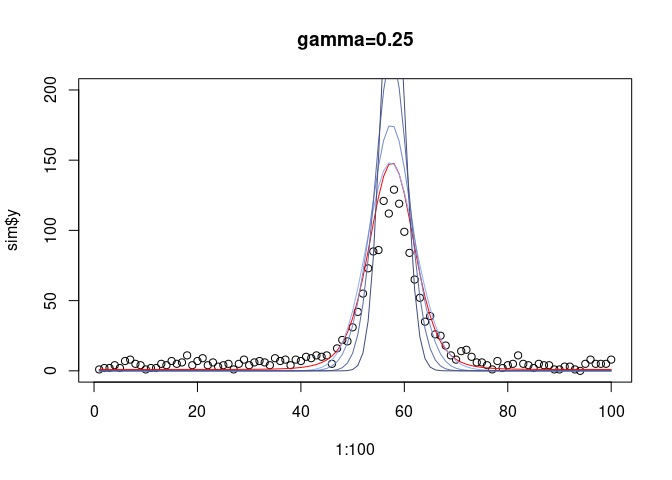
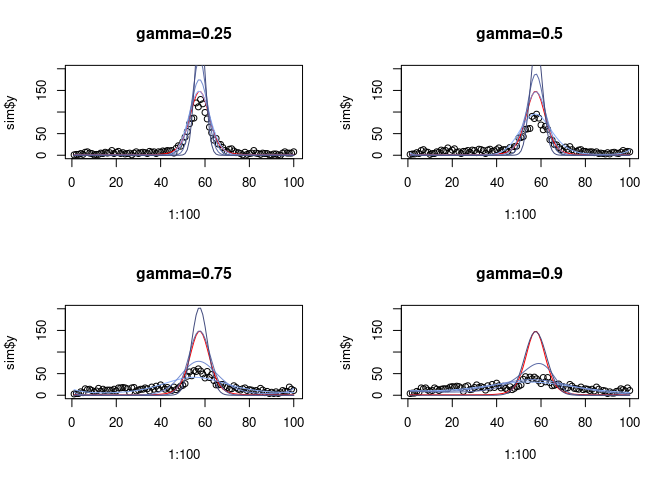
edits to vignette

diff --git a/vignettes/demo_1d.md b/vignettes/demo_1d.md
@@ -38,9 +38,9 @@ details, see everything below the quick start section.
 Here, we use a small sample of the RD-SPRITE data
 ([GSE151515](https://www.ncbi.nlm.nih.gov/geo/query/acc.cgi?acc=GSE151515)).
 
-We focus on the lncRNA which is a part of the imprinted cluster on
-chromosome 17 (mm10) and is thought to orchestrate silencing of the gene
-.
+We focus on the lncRNA *Airn* which is a part of the *Igf2r* imprinted
+cluster on chromosome 17 (mm10) and is thought to orchestrate silencing
+of the gene *Slc22a3*.
 
 ``` r
 airn <- fread('/rafalab/lzou/rdsprite/count_windows/Airn_RNA_count_windows_10000_clusters_2-1000_chr17_129S1_SvImJ.csv') |>
@@ -84,8 +84,9 @@ coefficients to be estimated.
 Before we deconvolve, it is important to inspect the DNA-DNA contact
 matrix and preprocess it.
 
-Here, we use an example DNA matrix, taken from the imprinted region (a
-1mb region around the locus) at 10kb bin resolution.
+Here, we use an example DNA matrix, taken from the *Kcnq1ot1* imprinted
+region (a 1mb region around the *Kcnq1ot1* locus) at 10kb bin
+resolution.
 
 ``` r
 dd <- readRDS(system.file("extdata", "rdsprite_kcnq1ot1_domain_DD.rds", package="dcon"))
@@ -165,6 +166,8 @@ deconvolve.
 In general, using a lower degrees of freedom, set using `df`, results in
 fewer spurious peaks while still capturing the main true signal.
 
+### Using true df
+
 ``` r
 par(mfrow=c(2,2))
 for (g in c(0.25, 0.5, 0.75, 0.9)) {
@@ -186,7 +189,10 @@ for (g in c(0.25, 0.5, 0.75, 0.9)) {
 
 ![](demo_1d_files/figure-gfm/unnamed-chunk-6-1.png)
 
+### Using lower df
+
 ``` r
+par(mfrow=c(2,2))
 for (g in c(0.25, 0.5, 0.75, 0.9)) {
   ddnorm <- normalize_hic(dd, gamma = g, smooth = T)
   sim <- dcon:::simulate_y(len = 100, df = 10, D = ddnorm, npeaks=1)
@@ -205,12 +211,6 @@ for (g in c(0.25, 0.5, 0.75, 0.9)) {
 ```
 
 ![](demo_1d_files/figure-gfm/unnamed-chunk-7-1.png)
-
-![](demo_1d_files/figure-gfm/unnamed-chunk-7-2.png)
-
-![](demo_1d_files/figure-gfm/unnamed-chunk-7-3.png)
-
-![](demo_1d_files/figure-gfm/unnamed-chunk-7-4.png)
 
 ``` r
 sessionInfo()
